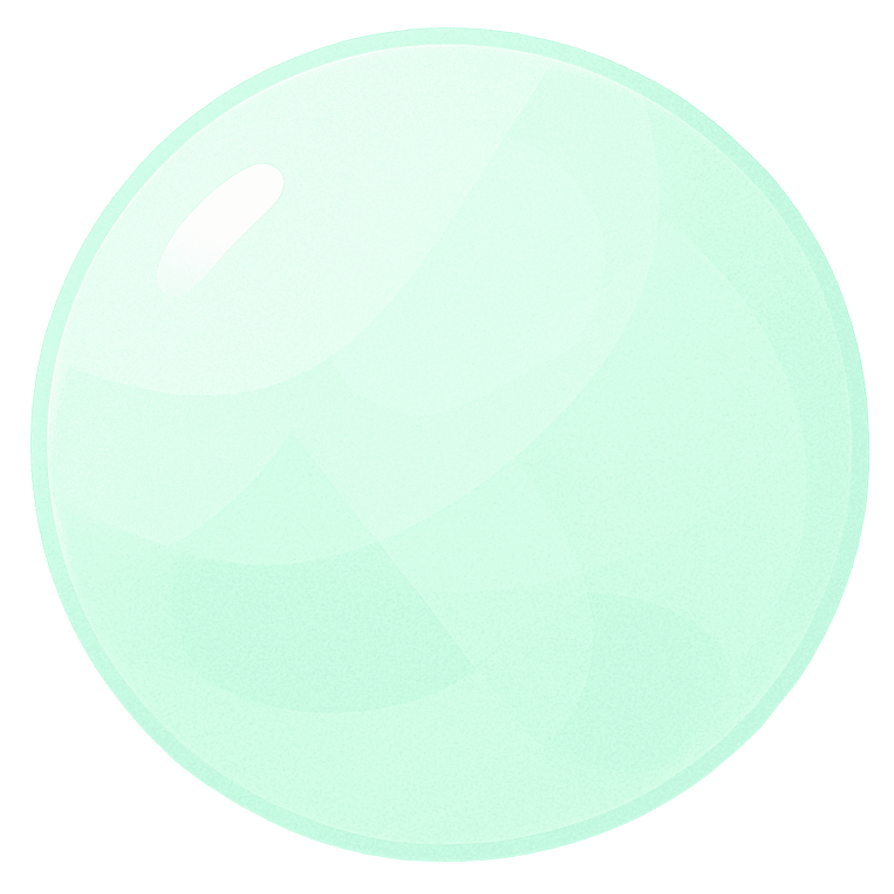
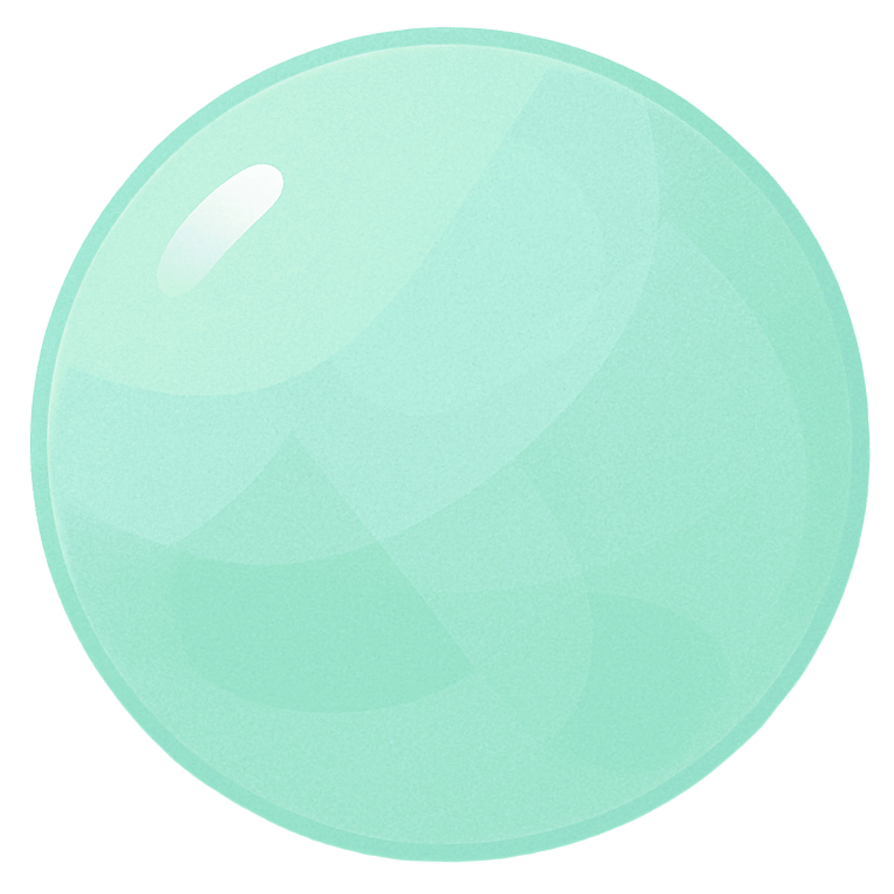
12/09

diff --git a/src/app/components/Header.tsx b/src/app/components/Header.tsx
@@ -18,44 +18,42 @@ const Header = () => {
             <a href="/input" className="hover:underline">我慢入力</a>
             <a href="/result" className="hover:underline">先週の結果</a>
             <a href="/calendar" className="hover:underline">カレンダー</a>
-            <a href="/goal" className="hover:underline">目標設定変更</a>
+            <a href="/goalSettings" className="hover:underline">目標設定変更</a>
           </nav>
         </div>
 
         {/* 右：シャボン玉（同じ画像をサイズ違いで使用） */}
         <div className="relative w-[340px] h-[200px] overflow-visible">
 
-          {/* 大バブル：ヘッダーが薄くなったので上に寄せる */}
-          <div className="absolute right-[-90px] top-[0px]">
+          <div className="absolute right-[-60px] top-[15px]">
             <div className="relative inline-block">
               <Image
                 src="/bubble2.png"
                 alt="目標金額バブル"
                 width={240}
                 height={240}
-                className="opacity-80"
+                className="opacity-90"
                 priority
               />
               <div className="pointer-events-none absolute inset-0 flex items-center justify-center
-                              text-xl md:text-2xl font-bold text-[#003344]">
+                              text-2xl font-bold text-[#003344]">
                 目標金額:5,000円
               </div>
             </div>
           </div>
 
-          {/* 小バブル：これも少し上に補正 */}
-          <div className="absolute left-[-30px] top-[100px]">
+          <div className="absolute left-[-70px] top-[100px]">
             <div className="relative inline-block">
               <Image
                 src="/bubble2.png"
                 alt="目標回数バブル"
                 width={200}
                 height={200}
-                className="opacity-85"
+                className="opacity-90"
                 priority
               />
               <div className="pointer-events-none absolute inset-0 flex items-center justify-center
-                              text-lg md:text-xl font-bold text-[#004455]">
+                              text-2xl font-bold text-[#004455]">
                 目標回数:3回
               </div>
             </div>

diff --git a/src/app/input/page.tsx b/src/app/input/page.tsx
@@ -6,7 +6,7 @@ const input = () => {
     const [patienceTimes, patienceSetTimes] = useState('');
     return (
         <>
-        <div className="w-screen justify-center items-center my-8 ">
+        <div className="w-screen justify-center items-center my-12">
             <div className="text-center mx-100 pt-14 border-2 border-black rounded-3xl">
                 <h2 className="text-4xl font-bold mb-24">なにを我慢しましたか？</h2>
                 <div className="space-y-6">
@@ -20,17 +20,17 @@ const input = () => {
                             placeholder="例）ラーメン"/>
                     </div>
                     <div className='flex items-center justify-center'>
-                        <h4 className="text-lg mr-12">貯金額：</h4>
+                        <h4 className="text-lg mr-8">我慢したお金：</h4>
                         <input
                             type="text"
                             value={patienceTimes}
                             onChange={(e) => patienceSetTimes(e.target.value)}
                             className="text-base border border-gray-300 rounded px-2 py-1 focus:outline-none focus:ring-2 focus:ring-blue-500"
-                            placeholder="（ここに内容を入力）"/>
+                            placeholder="200"/>
                         <p className='ml-1'>円</p>
                     </div>
                 </div>
-                <button className="mt-32 mb-4 bg-blue-500 hover:bg-blue-700 text-white font-bold py-2 px-8 rounded">追加</button>
+                <button className="mt-16 mb-4 bg-blue-500 hover:bg-blue-700 text-white font-bold py-2 px-8 rounded">追加</button>
             </div>
         </div>
         </>

diff --git a/src/app/goalSettings/page.tsx b/src/app/goalSettings/page.tsx
@@ -73,7 +73,7 @@ const GoalSettings = () => {
                 </div>
                 <button 
                     onClick={handleSubmit}
-                    className="mt-32 mb-4 bg-blue-500 hover:bg-blue-700 text-white font-bold py-2 px-8 rounded">送信</button>
+                    className="mt-16 mb-4 bg-blue-500 hover:bg-blue-700 text-white font-bold py-2 px-8 rounded">送信</button>
                 {message && (<p className="mt-4 text-xl font-semibold text-green-600">{message}</p>)}
             </div>
         </div>
